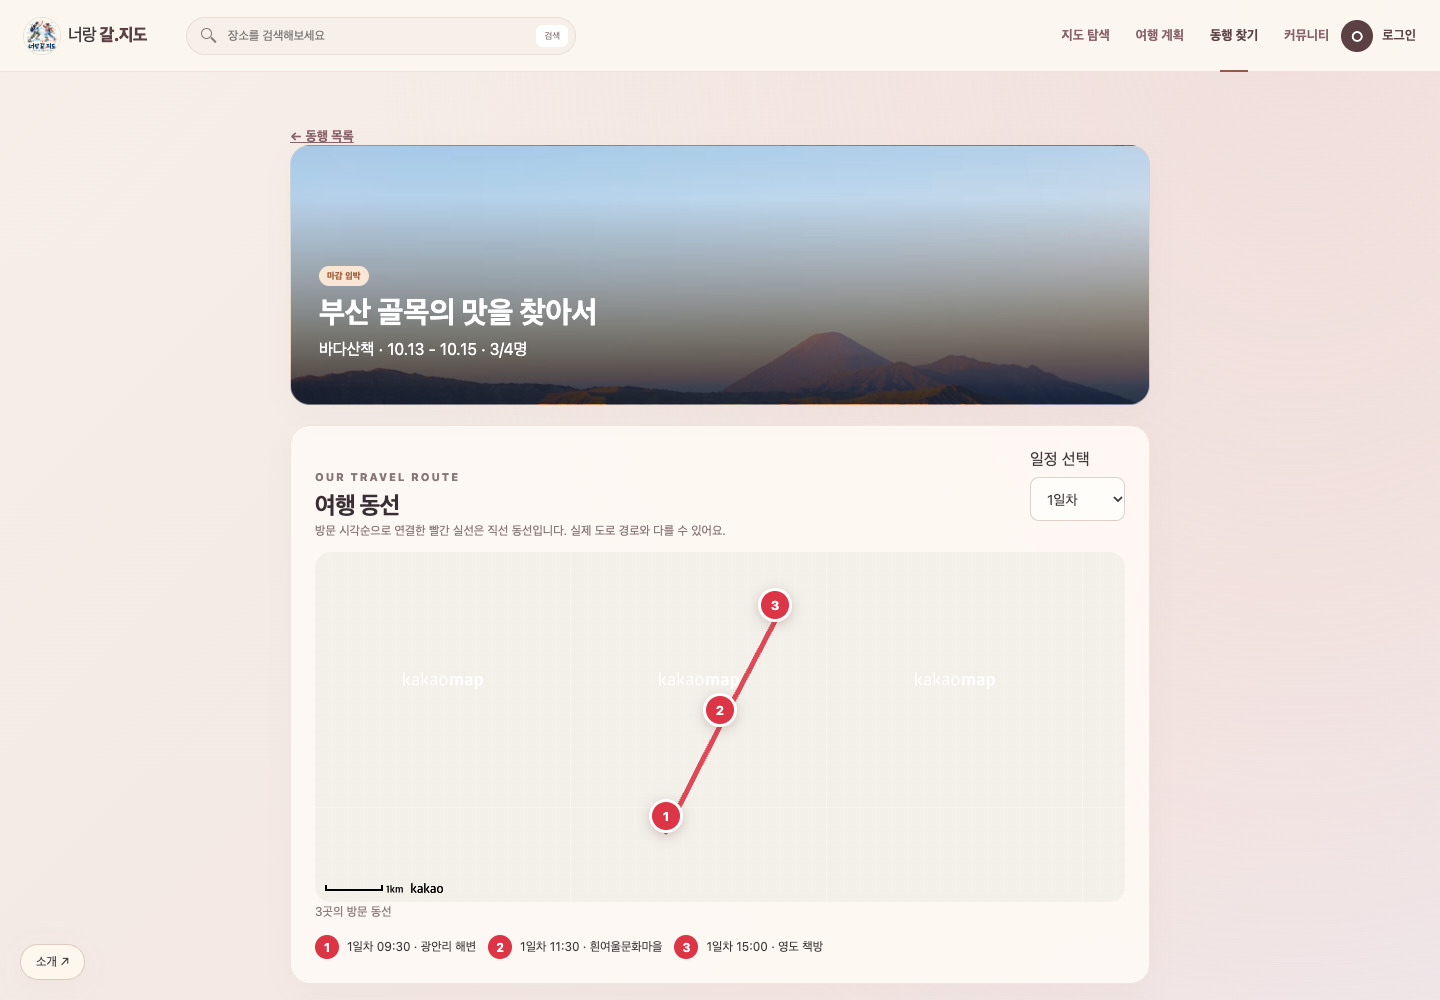
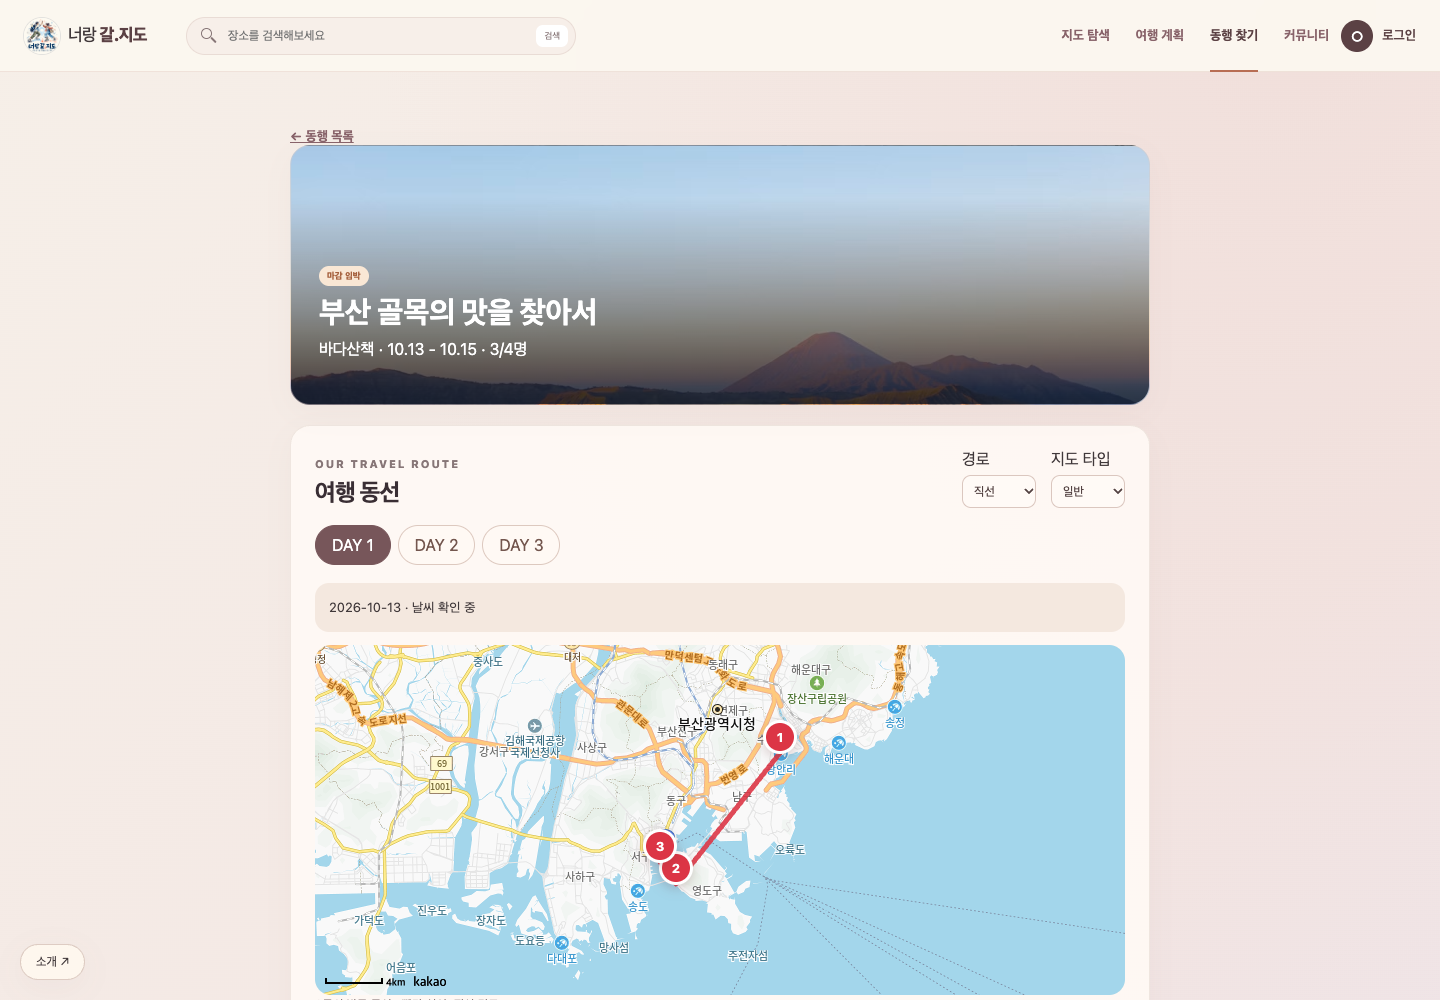
test: 지도 여행 흐름 로드뷰 좌표 보정 검증과 기록

diff --git a/docs/TROUBLE_SHOOTING.md b/docs/TROUBLE_SHOOTING.md
@@ -374,3 +374,25 @@ TourAPI 목록에 기존 데모 장소의 평점·리뷰·날씨와 인덱스로
 일출·일몰 API도 추가로 확인했습니다. v2는 v1처럼 `results` 아래에 시간을 넣지 않고 응답 최상위에 ISO 8601 시간을 제공합니다. 기존 v1 형태의 파싱을 수정했고 `tz=Asia/Seoul`과 한국 표준시 시각 포맷, 응답 실패 안내, 공급자 링크를 적용했습니다. 공식 문서: [Sunrise-Sunset API v2](https://sunrise-sunset.org/api).
 
 TourAPI `detailCommon2`도 실제 응답을 검증했습니다. 구버전의 `overviewYN` 등 옵션이 v2에서 `INVALID_REQUEST_PARAMETER_ERROR(overviewYN)`를 반환해 설명이 갱신되지 않았습니다. 해당 옵션을 제거하고 `contentId`로 상세를 조회하며, JSON의 결과 코드를 검사하도록 수정했습니다. 실제 서울 음식점에서 관광공사의 상세 설명이 표시되는 것을 확인했습니다.
+
+## 메인 지도에 의미 없는 빨간 선이 표시됨 (2026-10-03)
+- 원인: 첫 방문에도 기본/저장 초안의 일정이 지도에 자동으로 그려져, 탐색 중인 지역과 관계없는 빨간 선이 나타났다.
+- 해결: 탐색에서는 일정 선을 표시하지 않는다. 둘러보기·내 여행에서 사용자가 선택한 여행의 해당 DAY만 번호 마커와 함께 표시하고 지도를 해당 위치로 이동한다. 여행 변경/일차 변경 시 이전 선과 마커를 제거한다.
+- 차량경로는 각 방문 구간을 실제 길찾기로 요청하고 결과를 캐시한다. 일차·경로를 빠르게 바꿨을 때 이전 응답이 현재 선을 덮어쓰지 않도록 요청 순번을 검사한다. API 실패 시 빨간 직선으로 대체하고 상태 메시지로 알린다.
+
+## 동행 상세 지도 갱신과 로드뷰
+- 동행 상세와 메인 지도에서 경로 표시 모듈을 공유한다. 지도 SDK가 만든 컨테이너 내부 DOM을 지우면 SDK의 `insertBefore` 오류가 발생하므로, 실제 지도 연결 후에는 생성한 오버레이만 제거하고 컨테이너를 유지한다.
+- 지도 아이콘 아래에 일반·스카이뷰·로드뷰·지형도를 한 열로 제공한다. 로드뷰에서 파란 도로를 더블클릭하면 `RoadviewClient.getNearestPanoId`로 가까운 파노라마를 찾아 네이티브 dialog에 표시한다. 팝업 안에서 드래그·도로 이동 화살표를 사용할 수 있다. 파노라마가 없으면 안내하고 닫기/Escape로 지도로 돌아온다.
+- 구현 참고: https://apis.map.kakao.com/web/documentation/ 및 https://apis.map.kakao.com/web/sample/basicRoadview/
+
+## 지도 안에서 여행 작성·저장·공유
+- 둘러보기와 내 여행은 페이지 이동 대신 왼쪽 지도 패널을 전환한다. 내 여행에서는 새 여행/기존 계획 편집/초안 이어쓰기, 날짜·지역·정원·예산·소개, 장소 검색과 추가·삭제·시각 수정, 저장·동행 공유를 제공한다.
+- 지역 선택: 서울, 경기, 강원, 충남, 충북, 경남, 경북, 전남, 전북, 제주, 기타. 독립 계획 페이지도 같은 목록을 사용하고 지역·테마·소개를 계획에 저장한다.
+- 비로그인 작성 → 로그인 시 회원 초안으로 넘기고 같은 지도 편집 화면으로 복귀한다. 날짜 축소로 기존 장소가 사라질 때는 먼저 장소를 정리하도록 안내한다. 기존 모집글 업데이트는 참여자와 수동 마감을 유지한다.
+- DAY 버튼은 여행 기간 전체에 생성하고 해당 날짜의 동선과 목적지 기상청 예보를 표시한다. 예보 범위를 벗어나는 날짜는 예보 제공 전/지난 날짜로 안내한다. 모바일에서는 목록 닫기로 지도를 보고 하단 탭으로 다시 열 수 있다.
+- 검증: `tests/workspace.cjs`, `tests/workspace-guest.cjs`, `tests/roadview.cjs`, `tests/companion-route.cjs`, 기존 `tests/e2e.cjs` 61개 및 `tests/api.cjs` 통과. 실제 로드뷰 파노라마 로딩/드래그, 실제 차량경로, 지도 SDK 없는 직선 미리보기 포함.
+
+## 체험 여행의 차량경로가 실패함
+- 최종 검증을 실제 차량 경로 성공으로 강화하자 부산 일정의 일부 구간에서 카카오모빌리티 `result_code: 103`(도착 지점 주변 도로 탐색 불가)이 확인됐다. 더미 장소를 지역 기준점+임의 간격으로 만들면서 일부 좌표가 바다에 위치한 것이 원인이었다.
+- 부산·서울·강원 체험 장소 좌표를 카카오 Places 검색 결과로 보정했다. 기존 저장소는 일회성 좌표 마이그레이션으로 동행·저장계획·초안에 반영하며, 원래 더미 제목과 기존 좌표가 모두 일치하는 항목만 수정한다. 사용자가 수정한 장소나 게시물·회원·참여 정보는 유지한다.
+- `tests/workspace.cjs`는 기존 잘못된 좌표를 저장소에 재현한 뒤 복구를 확인하고, 차량경로 상태가 실제 차량경로 성공인지 검사한다. 실패 후 직선 대체 메시지만으로 통과하지 않는다.

diff --git a/docs/FEATURE_AUDIT.md b/docs/FEATURE_AUDIT.md
@@ -57,3 +57,9 @@
 추가 실제 API 확인: 카카오모빌리티 차량 경로가 표시됐고 제주 기본 일정의 차량 이동거리는 30.1km였습니다. 관광지 일출·일몰은 v2 응답 파싱 수정 후 실제 상세에 06:28/18:12로 표시되는 것을 확인했습니다. 추가 충전소 재측정은 약 1.2~1.9초 범위였으며 캐시 재조회는 모두 추가 요청 0회였습니다.
 
 관광지 상세 추가 검증: TourAPI v2 `detailCommon2`에서 폐기된 YN 옵션으로 생기던 파라미터 오류를 제거했고, 실제 장소의 상세 설명이 화면에 표시되는 것을 확인했습니다. API는 HTTP 200이어도 JSON 결과 코드가 오류인 경우 실패로 처리합니다.
+
+### 2026-10-03 지도 흐름 추가 검증
+- 메인 둘러보기/내 여행 패널, 선택한 여행으로 지도 이동, 카드별 직선/실제 차량경로, DAY별 장소·날씨, 새 여행 작성·장소 검색·저장·공유를 실제 Chrome에서 확인했습니다.
+- 요청한 11개 지역 선택값과 비로그인 초안의 로그인 후 이어쓰기를 확인했습니다. 모바일 목록 닫기·탭 전환 및 가로 넘침도 점검했습니다.
+- 로드뷰 더블클릭 팝업을 확인하고 실제 파노라마가 로딩된 후 드래그 전후 화면이 달라지는 것을 검증했습니다.
+- 새 검증 파일: `tests/workspace.cjs`, `tests/workspace-guest.cjs`, `tests/roadview.cjs`. 기존 61개 회귀 검증, 충전소 API 검증, 동행 지도/직선 미리보기 검증도 통과했습니다.

diff --git a/README.md b/README.md
@@ -273,3 +273,7 @@ node tests/live.cjs
 Playwright가 기본 모듈 경로에 없으면 `PLAYWRIGHT_MODULE`에 설치된 Playwright 패키지 절대 경로를 지정할 수 있습니다. `e2e.cjs`는 별도 브라우저 프로필에서 설정 키를 비활성화하고 로컬 기능을 검증합니다. `live.cjs`는 현재 `config.js`의 실제 API 설정이 필요합니다. 테스트는 일반 사용자의 브라우저 저장소를 수정하지 않습니다.
 
 최종 통합 검증: 61개 체크 통과, JavaScript 페이지 오류 0개. 실제 충전소 테스트: 약 1.4초(단일 측정), 8요청, 최대 80곳, 같은 지역 재활성화 추가 요청 0회. 자세한 한계와 검증 조건은 보고서에 기록했습니다.
+
+2026-10-03 지도 작업 흐름: 메인의 **둘러보기 / 내 여행**은 같은 지도 옆에서 목록을 전환합니다. 카드를 선택하면 해당 여행 위치로 이동하며 직선/차량경로와 DAY별 동선·날씨를 볼 수 있습니다. **내 여행 → 새 여행 작성**에서 장소 검색, 일정 저장, 동행 공유까지 진행할 수 있습니다. 지도 아이콘 메뉴의 **로드뷰 → 파란 도로 더블클릭**으로 이동 가능한 로드뷰 팝업을 엽니다.
+
+추가 브라우저 검증: `node tests/workspace.cjs`, `node tests/workspace-guest.cjs`, `node tests/roadview.cjs`. 기존 검증과 동일하게 Playwright와 Chrome을 사용합니다.
